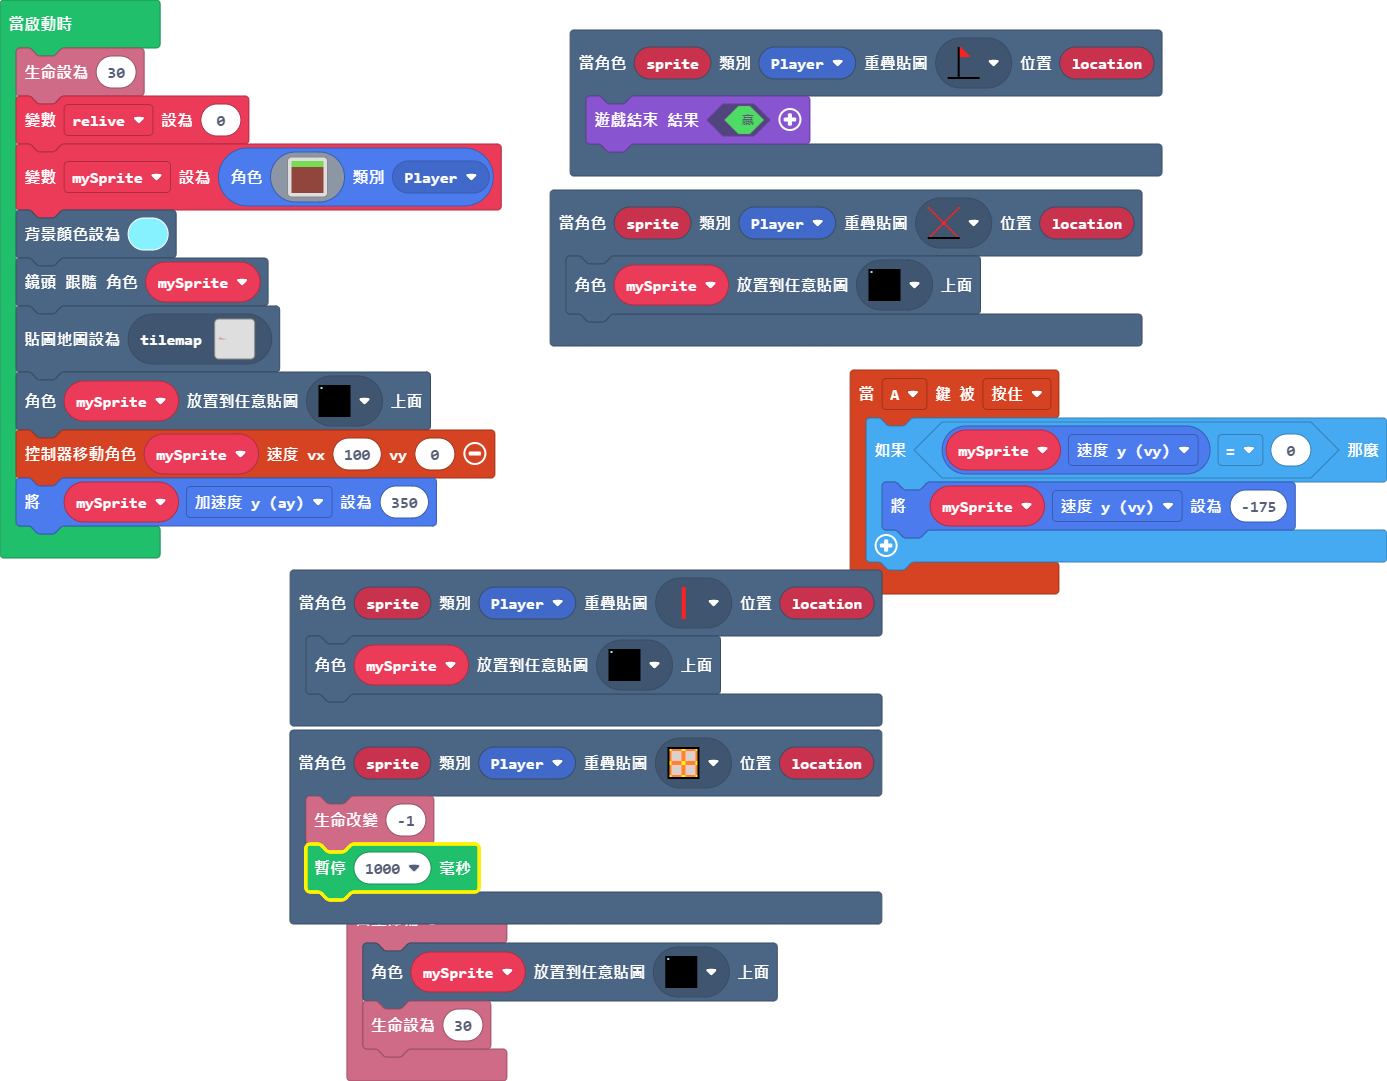
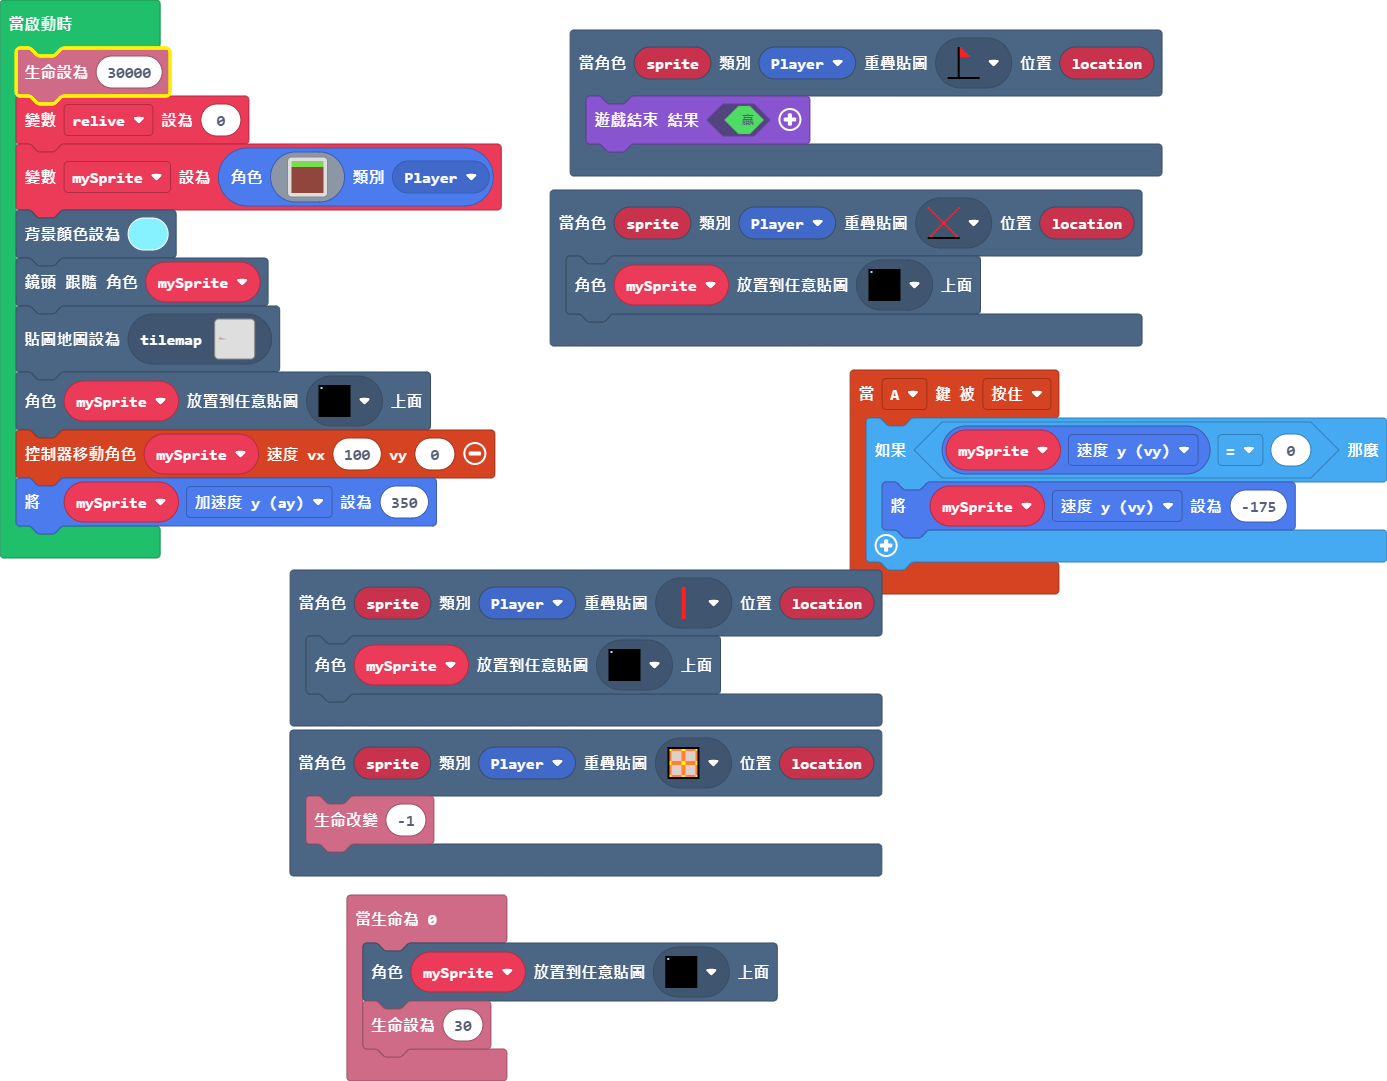
更新 main.blocks, main.ts

Changed region(s): [[0.186, 0.7632, 0.651, 0.8548], [0.0, 0.0305, 0.124, 0.0916]]

diff --git a/main.ts b/main.ts
@@ -8,7 +8,6 @@ scene.onOverlapTile(SpriteKind.Player, assets.tile`終點`, function (sprite, lo
 })
 scene.onOverlapTile(SpriteKind.Player, assets.tile`我的貼圖0`, function (sprite, location) {
     info.changeLifeBy(-1)
-    pause(1000)
 })
 info.onLifeZero(function () {
     tiles.placeOnRandomTile(mySprite, assets.tile`復活點1`)
@@ -21,7 +20,7 @@ scene.onOverlapTile(SpriteKind.Player, assets.tile`死亡點`, function (sprite,
     tiles.placeOnRandomTile(mySprite, assets.tile`復活點1`)
 })
 let mySprite: Sprite = null
-info.setLife(30)
+info.setLife(30000)
 let relive = 0
 mySprite = sprites.create(assets.image`角色`, SpriteKind.Player)
 scene.setBackgroundColor(9)
